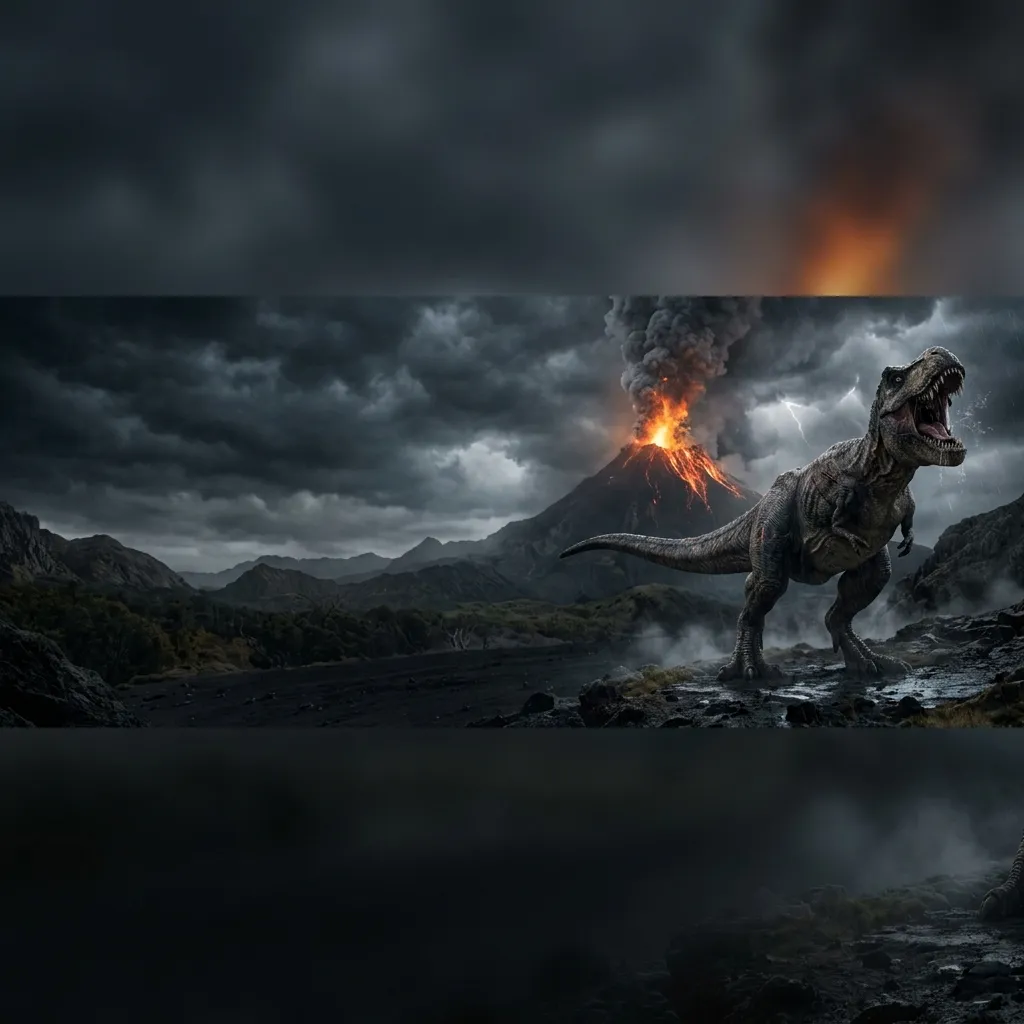
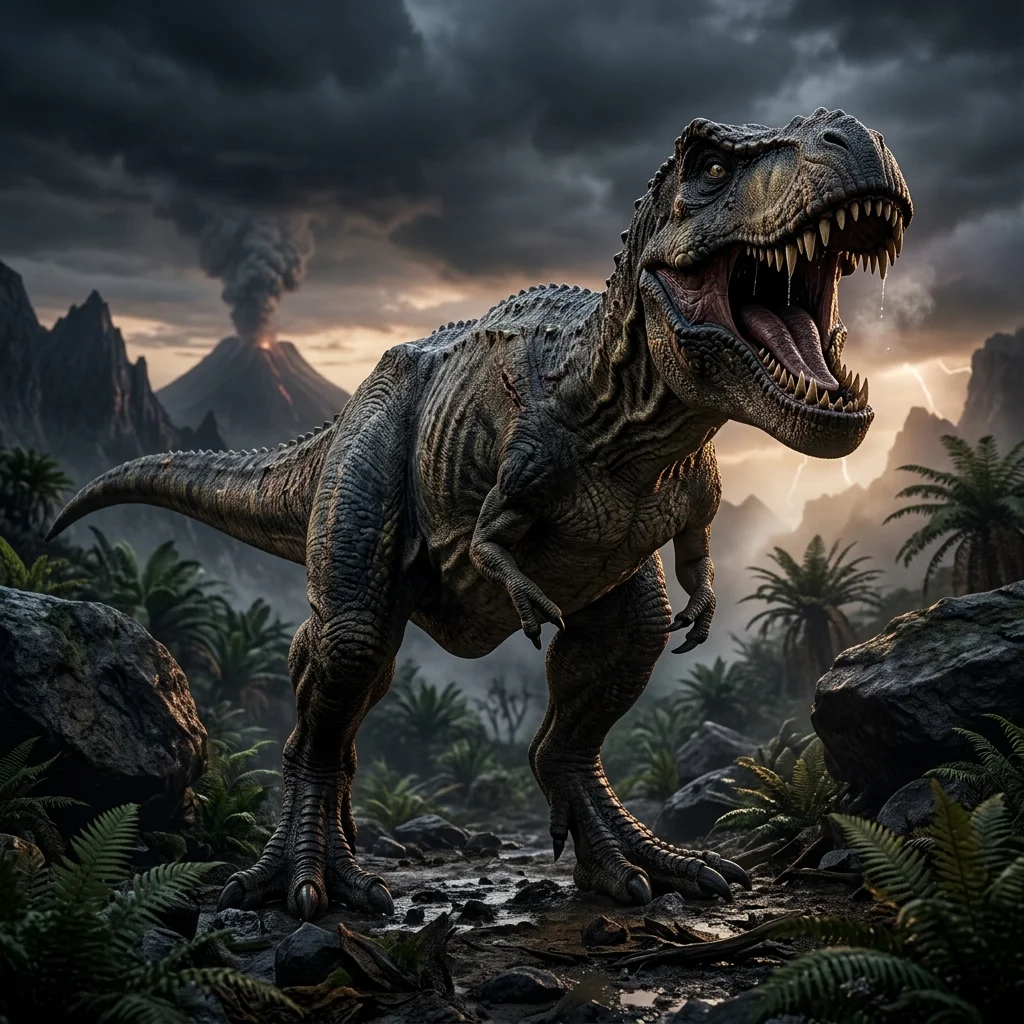
fix(assets): update T-Rex image to full size without letterboxing and adjust hero framing

diff --git a/src/pages/DinosaurPage.css b/src/pages/DinosaurPage.css
@@ -31,7 +31,7 @@
 }
 
 .dp-hero-bg-trex img {
-  object-position: right 70%;
+  object-position: right center;
 }
 
 @media (max-width: 768px) {
